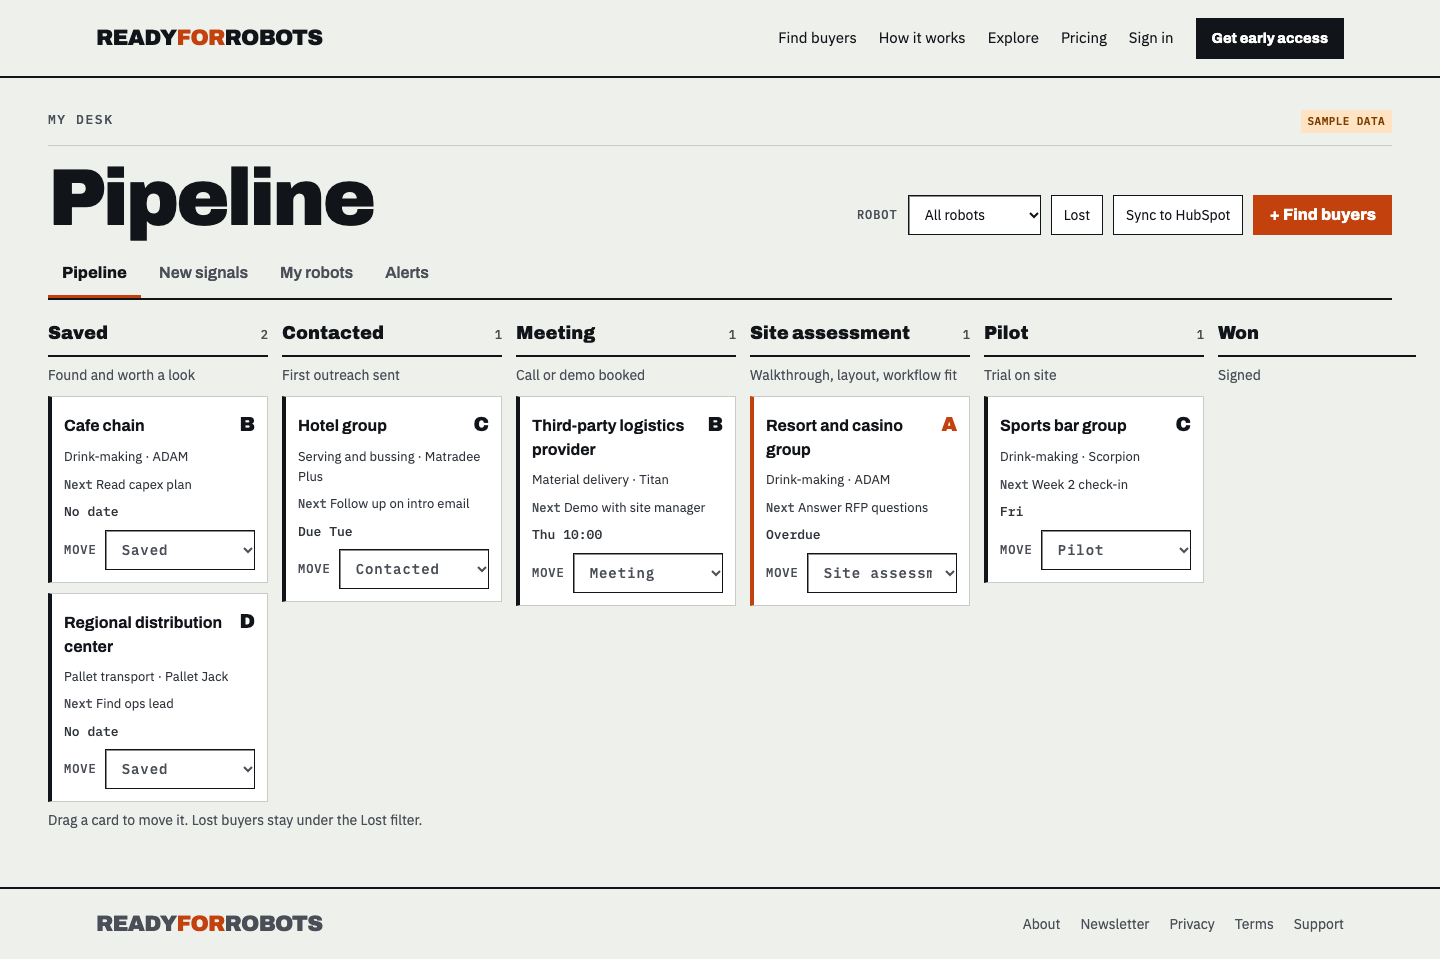
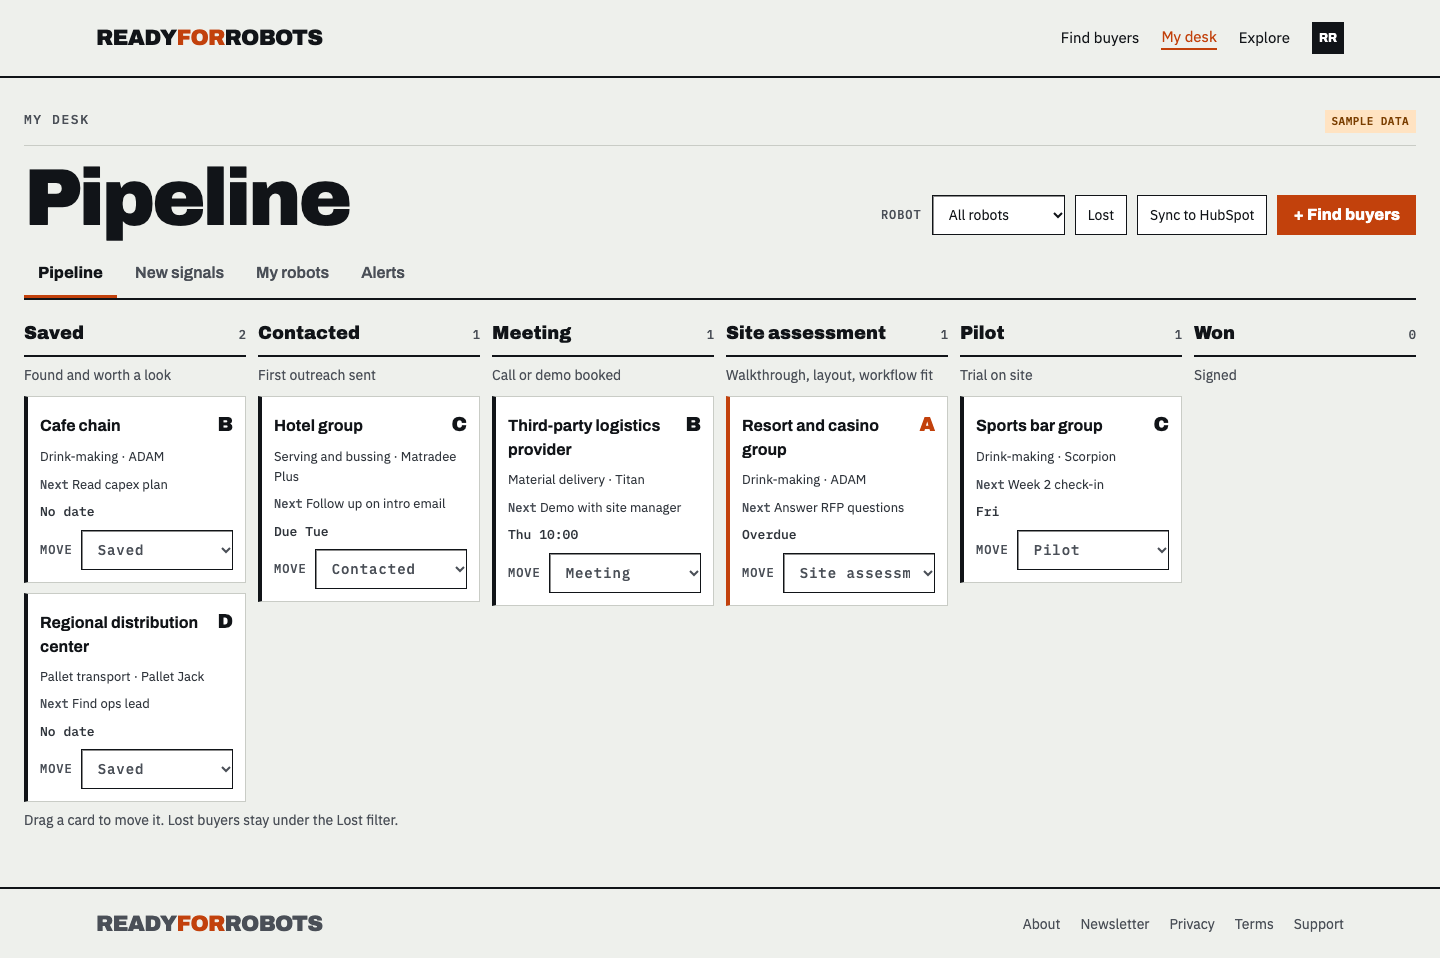
Scroll the desk columns inside the board when six columns cannot fit.

diff --git a/readyforrobots-new/client/src/components/editorial/editorial.css b/readyforrobots-new/client/src/components/editorial/editorial.css
@@ -1470,10 +1470,10 @@
 
 .rfr-desk-columns {
   display: grid;
-  grid-template-columns: repeat(6, minmax(0, 1fr));
+  grid-template-columns: repeat(6, minmax(200px, 1fr));
   gap: 12px;
   width: 100%;
-  min-width: 0;
+  min-width: calc(6 * 200px + 5 * 12px);
   max-width: 1392px;
 }
 
